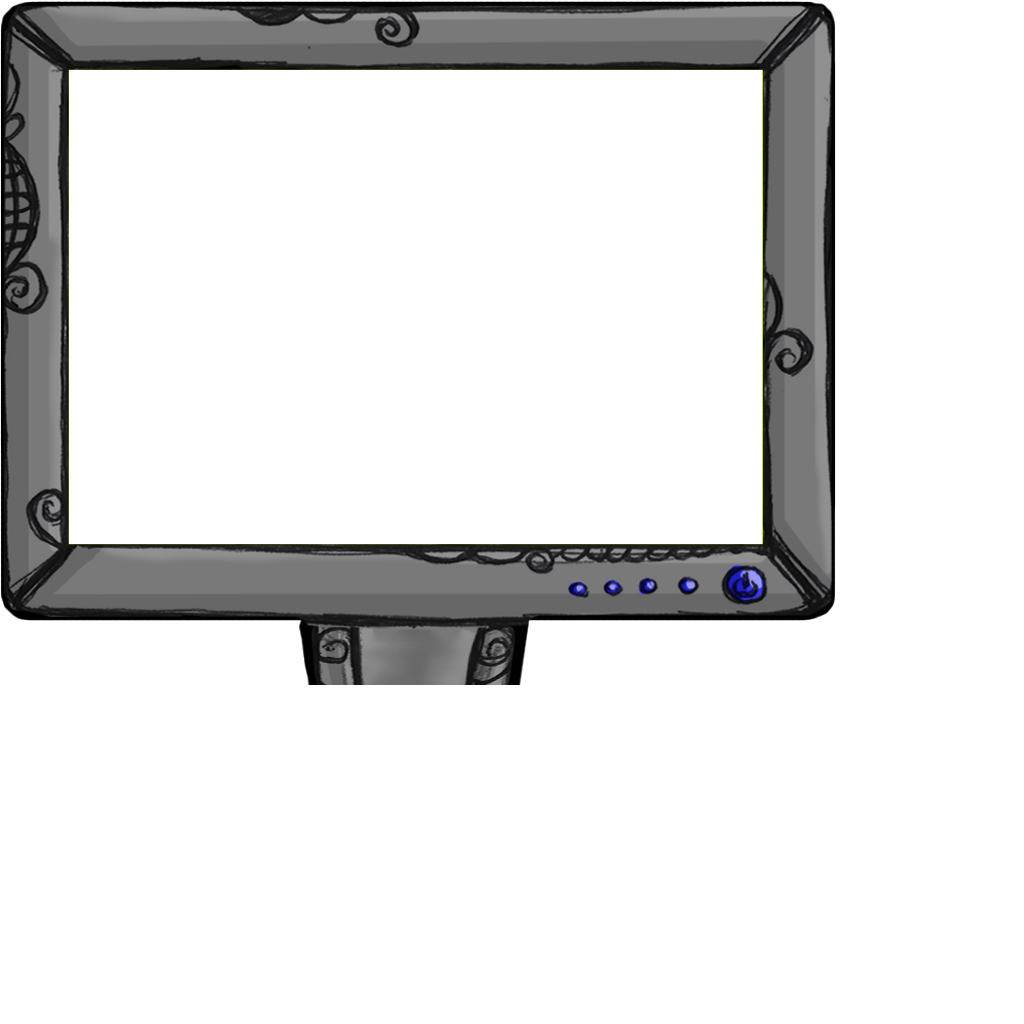
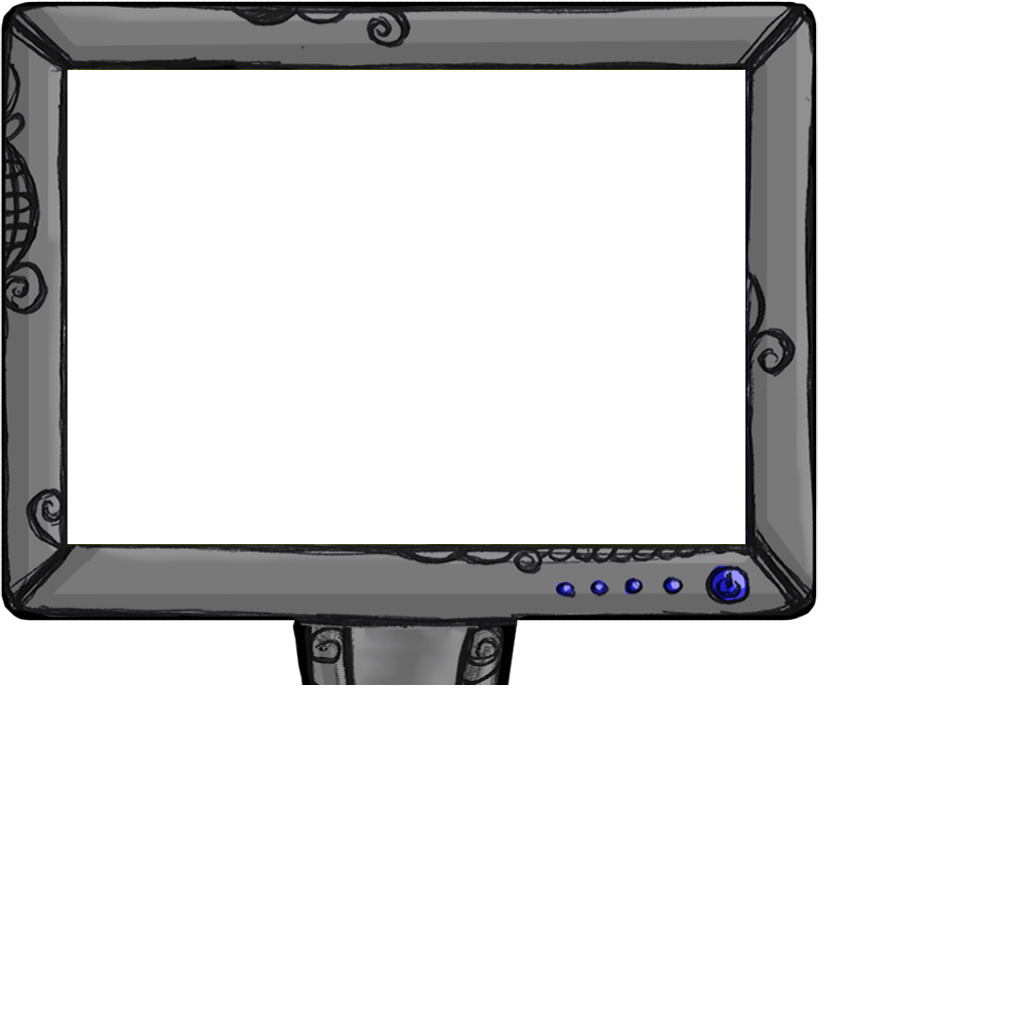
computer screen success

diff --git a/GreenTime/GreenTime/Screens/ComputerScreen.cs b/GreenTime/GreenTime/Screens/ComputerScreen.cs
@@ -12,8 +12,8 @@ namespace GreenTime.Screens
     public class ComputerScreen : GameScreen
     {
         #region Constants
-        private const int SCREEN_WIDTH = 836;
-        private const int SCREEN_HEIGHT = 685 - 135;
+        private const int SCREEN_WIDTH = 818 - 25;
+        private const int SCREEN_HEIGHT = 685 - 185;
         #endregion
 
         #region Fields
@@ -21,12 +21,7 @@ namespace GreenTime.Screens
         Texture2D screenBackground;
         Texture2D screenOutline;
         Texture2D screenPicture;
-        Rectangle screenRect = new Rectangle( 0, 0, 836, 685 );
-
-        // search options
-        List<SearchEntry> searchEntries = new List<SearchEntry>();
-        int selectedEntry = 0;
-        string searchTitle;
+        Rectangle screenRect = new Rectangle( 0, 0, 818, 685 );
 
         int finalScreenX;
         int finalScreenY;
@@ -47,12 +42,12 @@ namespace GreenTime.Screens
             TransitionOffTime = TimeSpan.FromSeconds(0.3);
 
             centerScreenX = (int)Math.Round((SettingsManager.GAME_WIDTH / 2.0f));
-            centerScreenY = (int)Math.Round((SettingsManager.GAME_HEIGHT / 2.0f));
+            centerScreenY = (int)Math.Round((SettingsManager.GAME_HEIGHT / 2.0f)) + 20;
             finalScreenX = (int)Math.Round((SettingsManager.GAME_WIDTH / 2.0f) - (SCREEN_WIDTH / 2.0f));
-            finalScreenY = (int)Math.Round((SettingsManager.GAME_HEIGHT / 2.0f) - (SCREEN_HEIGHT / 2.0f));
+            finalScreenY = (int)Math.Round((SettingsManager.GAME_HEIGHT / 2.0f) - (SCREEN_HEIGHT / 2.0f)) - 5;
 
             localCenterScreenX = (int)Math.Round(SCREEN_WIDTH / 2.0f);
-            localCenterScreenY = (int)Math.Round(SCREEN_HEIGHT / 2.0f);
+            localCenterScreenY = (int)Math.Round(SCREEN_HEIGHT / 2.0f) - 15;
             
         }
 
@@ -76,8 +71,6 @@ namespace GreenTime.Screens
             for (int i = 0; i < SCREEN_WIDTH * SCREEN_HEIGHT; i++)
                 bgColor[i] = Color.White;
             screenBackground.SetData(bgColor);
-
-            //AddSearchEntries();
         }
 
         /// <summary>
@@ -87,15 +80,6 @@ namespace GreenTime.Screens
         {
             if (content != null)
                 content.Unload();
-        }
-
-        /// <summary>
-        /// Add the available search entries
-        /// </summary>
-        private void AddSearchEntries()
-        {
-            //SearchEntry entryNews = new SearchEntry("News");
-            //searchEntries.Add(entryNews);
         }
         #endregion
 
@@ -108,54 +92,7 @@ namespace GreenTime.Screens
         {
             if (input.IsMenuSelect() || input.IsMenuCancel())
                 OnCancel();
-            /*
-            // Move to the previous menu entry?
-            if (input.IsMenuUp())
-            {
-                selectedEntry--;
-
-                if (selectedEntry < 0)
-                    selectedEntry = searchEntries.Count - 1;
-            }
-
-            // Move to the next menu entry?
-            if (input.IsMenuDown())
-            {
-                selectedEntry++;
-
-                if (selectedEntry >= searchEntries.Count)
-                    selectedEntry = 0;
-            }
-
-            // update title
-            searchTitle = searchEntries[selectedEntry].Text;
-
-            // Accept or cancel the menu? We pass in our ControllingPlayer, which may
-            // either be null (to accept input from any player) or a specific index.
-            // If we pass a null controlling player, the InputState helper returns to
-            // us which player actually provided the input. We pass that through to
-            // OnSelectEntry and OnCancel, so they can tell which player triggered them.
-
-            if (input.IsMenuSelect())
-            {
-                OnSelectEntry(selectedEntry);
-            }
-            else if (input.IsMenuCancel())
-            {
-                OnCancel();
-            }
-             */
         }
-
-
-        /// <summary>
-        /// Handler for when the user has chosen a menu entry.
-        /// </summary>
-        protected virtual void OnSelectEntry(int entryIndex)
-        {
-            //searchEntries[entryIndex].OnSelectEntry();
-        }
-
 
         /// <summary>
         /// Handler for when the user has cancelled the menu.
@@ -185,7 +122,7 @@ namespace GreenTime.Screens
 
             spriteBatch.Begin( SpriteSortMode.BackToFront, BlendState.AlphaBlend );
 
-            spriteBatch.Draw(screenOutline, new Vector2(centerScreenX, centerScreenY), screenRect, Color.White, 0.0f, new Vector2( screenOutline.Width / 2.0f, screenOutline.Height / 2.0f ), 1.0f, SpriteEffects.None, 0 );
+            spriteBatch.Draw(screenOutline, new Vector2(centerScreenX, centerScreenY), screenRect, Color.White, 0.0f, new Vector2(screenRect.Width / 2.0f, screenRect.Height / 2.0f), 1.0f, SpriteEffects.None, 0);
 
             // this beautiful piece of code handles the effect of turning on/off the screen
             // this beautiful piece of code was written in one go and executed perfectly! I should drink to this
@@ -215,52 +152,11 @@ namespace GreenTime.Screens
             // draw the normal stuff
             if (TransitionAlpha == 1.0)
             {
-                // make sure our entries are in the right place before we draw them
-                UpdateMenuEntryLocations();
-
-                // Draw each menu entry in turn.
-                /*
-                for (int i = 0; i < searchEntries.Count; i++)
-                {
-                    SearchEntry searchEntry = searchEntries[i];
-
-                    bool isSelected = IsActive && (i == selectedEntry);
-
-                    searchEntry.Draw(this, isSelected, gameTime);
-                }
-
-                // draw middle border
-                spriteBatch.Draw(screenBackground, new Vector2(finalScreenX + 250, finalScreenY), new Rectangle(0, 0, 2, screenBackground.Height), Color.Gray);
-                */
                 // draw title
-                spriteBatch.Draw(screenPicture, new Vector2(finalScreenX + 252.0f, finalScreenY + 48.0f), new Rectangle(0, 0, 691, 482), Color.White);
-                //spriteBatch.DrawString(this.ScreenManager.Font, searchTitle, new Vector2(finalScreenX + 270.0f, finalScreenY + 50.0f), Color.DarkGreen, 0.0f, Vector2.Zero, 1.2f, SpriteEffects.None, 0);
-                 
+                spriteBatch.Draw(screenPicture, new Vector2(finalScreenX + 52.0f, finalScreenY), new Rectangle(0, 0, 691, 482), Color.White);
             }
 
             spriteBatch.End();
-        }
-
-        /// <summary>
-        /// Allows the screen the chance to position the menu entries. By default
-        /// all menu entries are lined up in a vertical list, centered on the screen.
-        /// </summary>
-        private void UpdateMenuEntryLocations()
-        {
-            // start at Y = 175; each X value is generated per entry
-            Vector2 position = new Vector2(finalScreenX + 70.0f, finalScreenY + 75.0f);
-
-            // update each menu entry's location in turn
-            for (int i = 0; i < searchEntries.Count; i++)
-            {
-                SearchEntry searchEntry = searchEntries[i];
-
-                // set the entry's position
-                searchEntry.Position = position;
-
-                // move down for the next entry the size of this entry
-                position.Y += searchEntry.GetHeight(this);
-            }
         }
         #endregion
 
